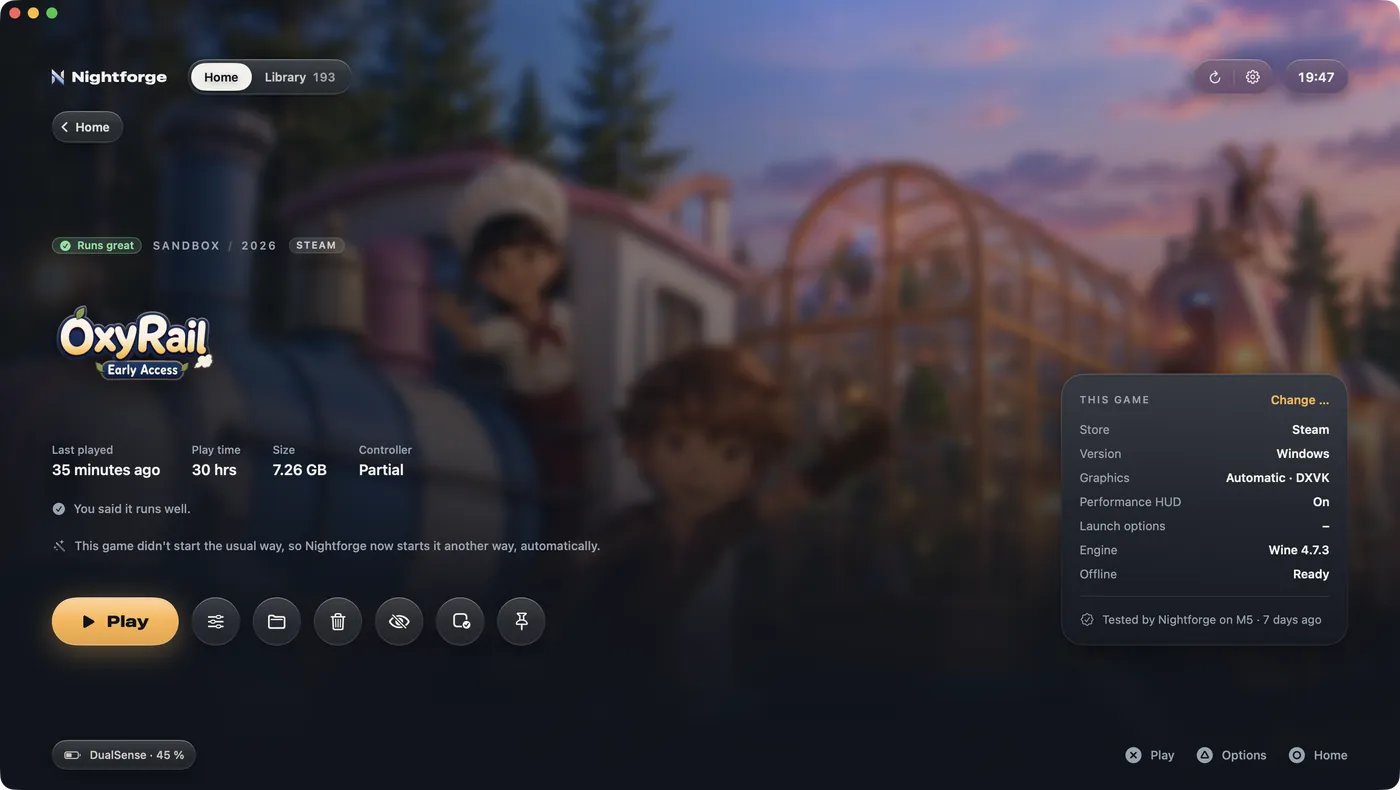
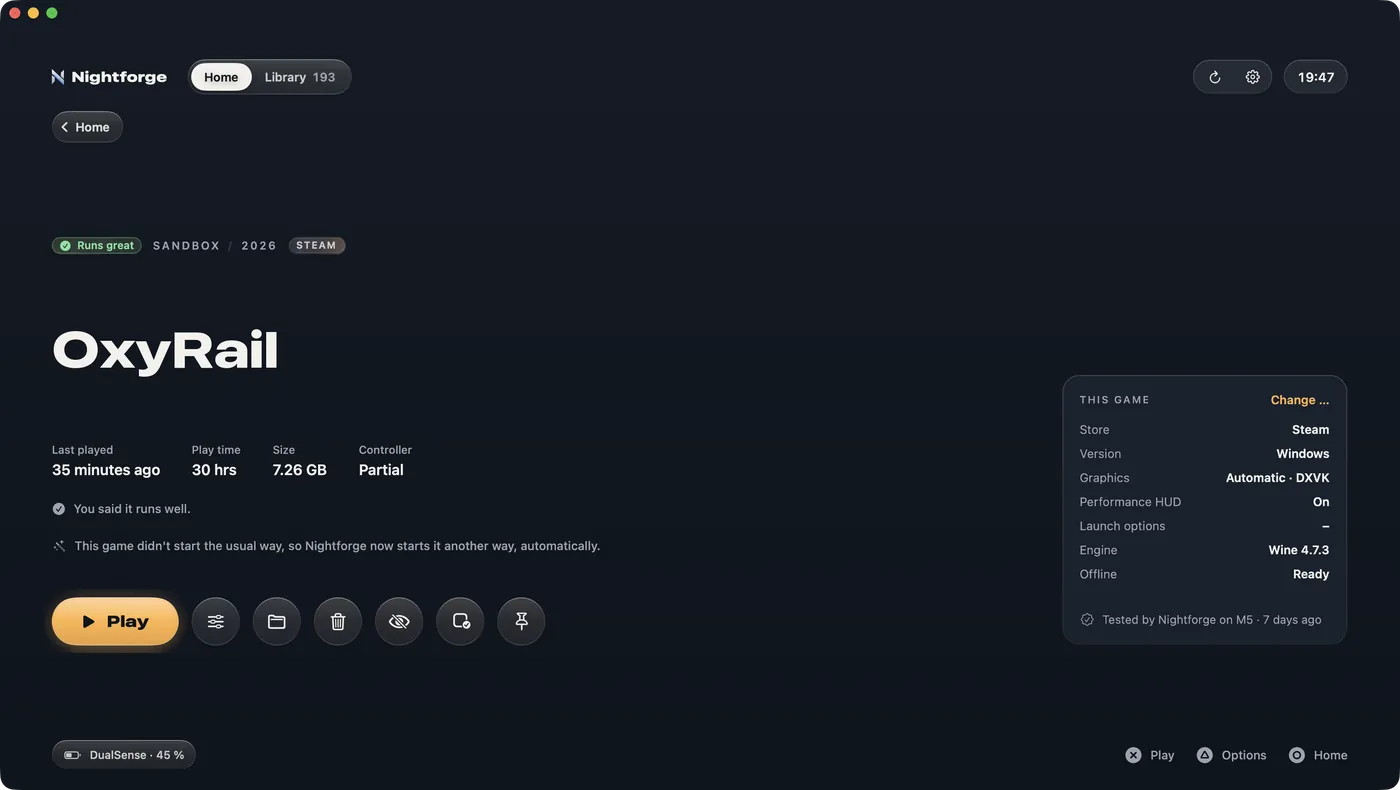
Landing page and README: no game artwork in the screenshots
Covers and logos belong to their publishers, so every capture shows
Nightforge's own look for a game without artwork instead (the user chose
it over a blur): Theme.slate to Theme.night with the game's real name in
the display face, the stage's turned covers as plain panels, OxyRail's
logo as its name, and on a game's page a plain backdrop with the
interface lifted off the original. Store tags, controller badges and all
text stay as captured. Names come from the library itself, none made up.
Captions and the credits say covers are left out. The anti-cheat line
now says GeForce Now works with Steam and, where it supports it, Epic.

diff --git a/site/index.html b/site/index.html
@@ -151,7 +151,7 @@
       </div>
       <div class="device-base" aria-hidden="true"><span></span></div>
     </div>
-    <figcaption><span lang="de">Die echte Startseite: das zuletzt Gespielte vorne, wie es läuft und aus welchem Store es kommt.</span><span lang="en">The real Home screen: what you played last up front, how it runs and which store it comes from.</span></figcaption>
+    <figcaption><span lang="de">Die echte Startseite: das zuletzt Gespielte vorne, wie es läuft und aus welchem Store es kommt. Die Cover der Spiele sind in allen Bildern ausgeblendet – sie gehören den Verlagen.</span><span lang="en">The real Home screen: what you played last up front, how it runs and which store it comes from. Game covers are left out of every picture – they belong to their publishers.</span></figcaption>
   </figure>
 </section>
 
@@ -392,7 +392,7 @@
     <ul class="honest reveal">
       <li>
         <h3><span lang="de">Anti-Cheat</span><span lang="en">Anti-cheat</span></h3>
-        <p><span lang="de">Online-Spiele mit Easy Anti-Cheat oder BattlEye laufen auf keinem Mac. Nightforge sagt dir das vor dem Download und bietet GeForce Now an – mit deinem Spiel von Steam. Gibt es einen Start ohne Anti-Cheat, nimmt Nightforge den.</span><span lang="en">Online games with Easy Anti-Cheat or BattlEye can’t run on a Mac. Nightforge tells you before you download and offers GeForce Now instead – with your copy from Steam. When there’s a way to start without anti-cheat, Nightforge takes it.</span></p>
+        <p><span lang="de">Online-Spiele mit Easy Anti-Cheat oder BattlEye laufen auf keinem Mac. Nightforge sagt dir das vor dem Download und bietet GeForce Now an, wenn es das Spiel dort gibt – mit deinem Spiel von Steam oder, soweit GeForce Now es unterstützt, von Epic. Gibt es einen Start ohne Anti-Cheat, nimmt Nightforge den.</span><span lang="en">Online games with Easy Anti-Cheat or BattlEye can’t run on a Mac. Nightforge tells you before you download and offers GeForce Now when the game is there – with your copy from Steam or, where GeForce Now supports it, from Epic. When there’s a way to start without anti-cheat, Nightforge takes it.</span></p>
       </li>
       <li>
         <h3>DirectX</h3>
@@ -499,7 +499,7 @@
       <a href="https://github.com/Open-Wine-Components/umu-protonfixes">umu-protonfixes</a>
       <span lang="de">und</span><span lang="en">and</span>
       <a href="https://github.com/AreWeAntiCheatYet/AreWeAntiCheatYet">AreWeAntiCheatYet</a>.</p>
-    <p class="fine"><span lang="de">Nightforge ist nicht mit Valve, Epic Games, GOG, NVIDIA oder Apple verbunden. Steam ist eine Marke der Valve Corporation, Epic Games eine Marke von Epic Games, Inc., GOG eine Marke von GOG sp. z o.o., GeForce NOW eine Marke von NVIDIA; Mac und macOS sind Marken von Apple Inc. Die Screenshots zeigen die eigene Bibliothek des Entwicklers; Spiele-Artwork gehört den Verlagen.</span><span lang="en">Nightforge is not affiliated with Valve, Epic Games, GOG, NVIDIA or Apple. Steam is a trademark of Valve Corporation, Epic Games a trademark of Epic Games, Inc., GOG a trademark of GOG sp. z o.o., GeForce NOW a trademark of NVIDIA; Mac and macOS are trademarks of Apple Inc. Screenshots show the maintainer’s own library; game artwork belongs to its publishers.</span></p>
+    <p class="fine"><span lang="de">Nightforge ist nicht mit Valve, Epic Games, GOG, NVIDIA oder Apple verbunden. Steam ist eine Marke der Valve Corporation, Epic Games eine Marke von Epic Games, Inc., GOG eine Marke von GOG sp. z o.o., GeForce NOW eine Marke von NVIDIA; Mac und macOS sind Marken von Apple Inc. Die Screenshots zeigen die eigene Bibliothek des Entwicklers, die Cover der Spiele sind darin ausgeblendet; Spiele-Artwork gehört den Verlagen.</span><span lang="en">Nightforge is not affiliated with Valve, Epic Games, GOG, NVIDIA or Apple. Steam is a trademark of Valve Corporation, Epic Games a trademark of Epic Games, Inc., GOG a trademark of GOG sp. z o.o., GeForce NOW a trademark of NVIDIA; Mac and macOS are trademarks of Apple Inc. Screenshots show the maintainer’s own library with the game covers left out; game artwork belongs to its publishers.</span></p>
   </div>
 </footer>
 

diff --git a/README.md b/README.md
@@ -151,7 +151,7 @@ On a trackpad, two fingers sideways go back, and pinching in the library makes t
 
 ## Good to know
 
-- **Online games with anti-cheat** (Easy Anti-Cheat, BattlEye) can't run on a Mac. Nightforge says so before you download and offers **GeForce Now** instead, with your copy from Steam. When Steam offers a way to start a game without anti-cheat, Nightforge takes it. Single player and servers without anti-cheat work.
+- **Online games with anti-cheat** (Easy Anti-Cheat, BattlEye) can't run on a Mac. Nightforge says so before you download and offers **GeForce Now** when the game is there – with your copy from Steam or, where GeForce Now supports it, from Epic. When Steam offers a way to start a game without anti-cheat, Nightforge takes it. Single player and servers without anti-cheat work.
 - **DirectX 9 to 11** is well covered. **DirectX 12** runs through Apple's D3DMetal; it's newer ground, so expect the odd game that doesn't.
 - **VR-only games** are marked as such; they can't run on a Mac.
 - Saves in the **Steam Cloud** sync as usual.
@@ -204,4 +204,4 @@ D3DMetal is Apple's software, not part of Nightforge and not under the GPL. Nigh
 
 Nightforge stands on the work of [Wine](https://www.winehq.org), CodeWeavers' CrossOver changes ([winecx-gptk](https://github.com/dappermint/winecx-gptk)), [Gcenx's Wine builds and DXVK-macOS](https://github.com/Gcenx), [DXMT](https://github.com/3Shain/dxmt), [MoltenVK](https://github.com/KhronosGroup/MoltenVK), Apple's [D3DMetal](https://developer.apple.com/games/game-porting-toolkit/), [legendary](https://github.com/derrod/legendary), [gogdl](https://github.com/Heroic-Games-Launcher/heroic-gogdl), [winetricks](https://github.com/Winetricks/winetricks), [cabextract](https://www.cabextract.org.uk), [umu-protonfixes](https://github.com/Open-Wine-Components/umu-protonfixes) and [AreWeAntiCheatYet](https://github.com/AreWeAntiCheatYet/AreWeAntiCheatYet). Their licences apply to the components Nightforge downloads.
 
-Nightforge is not affiliated with Valve, Epic Games, GOG, NVIDIA or Apple. Steam is a trademark of Valve Corporation, Epic Games a trademark of Epic Games, Inc., GOG a trademark of GOG sp. z o.o., GeForce NOW a trademark of NVIDIA; Mac and macOS are trademarks of Apple Inc. Screenshots show the maintainer's own library; game artwork belongs to its publishers.
+Nightforge is not affiliated with Valve, Epic Games, GOG, NVIDIA or Apple. Steam is a trademark of Valve Corporation, Epic Games a trademark of Epic Games, Inc., GOG a trademark of GOG sp. z o.o., GeForce NOW a trademark of NVIDIA; Mac and macOS are trademarks of Apple Inc. Screenshots show the maintainer's own library with the game covers left out; game artwork belongs to its publishers.
